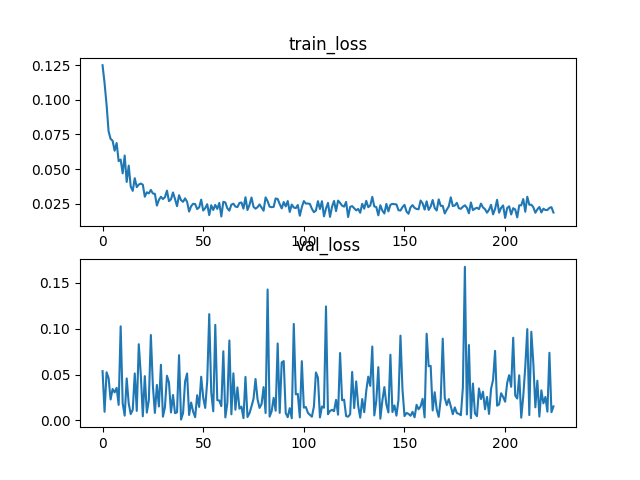
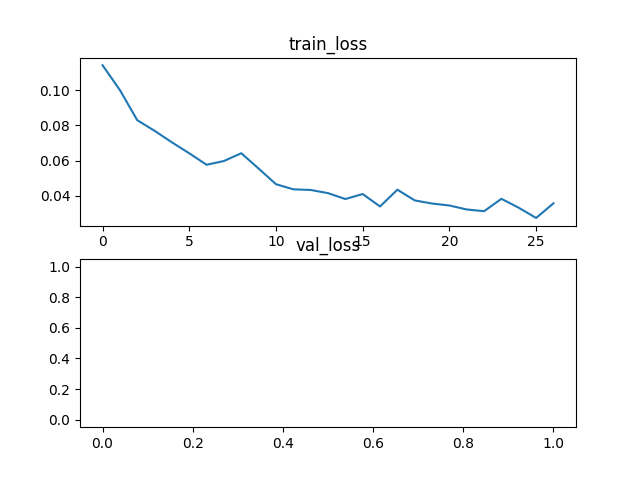
model save+refine requirment.txt+plot each iter

diff --git a/train_cnn.py b/train_cnn.py
@@ -27,12 +27,13 @@ logging.basicConfig(level=logging.INFO)
 
 from utils.visualisation.gridshow import show_image
 from datetime import datetime as dtime
+save_folder = 'saved'
 now = dtime.now()
 time = 'alex_net_18_depth_test'
 class Args():
   network= 'ggcnn'
   dataset = 'cornell'
-  dataset_path = r"C:\Users\ASUS ZENBOOK\Desktop\cornell_dataset"
+  dataset_path = r"/home/taarlab-ros/Desktop/cornell_dataset"
   use_rgb = True
   use_depth = True
   split = 0.9
@@ -78,7 +79,7 @@ def parse_args():
     return args
 
 
-def validate(net, device, val_data, batches_per_epoch, epoch, val_losses):
+def validate(net, device, val_data, batches_per_epoch, epoch):
     """
     Run validation.
     :param net: Network
@@ -114,7 +115,7 @@ def validate(net, device, val_data, batches_per_epoch, epoch, val_losses):
                 yc = y.to(device)
                 pred = net(xc)
                 loss = F.mse_loss(pred, yc)
-                results['loss'] += loss.item()/ld
+                results['loss'] += loss.item()
 
                 s = evaluation.calculate_iou_match_hamed(pred, val_data.dataset.get_gtbb(didx, rot, zoom_factor, normalise=False))
 
@@ -123,14 +124,14 @@ def validate(net, device, val_data, batches_per_epoch, epoch, val_losses):
                 else:
                     results['failed'] += 1
 
-                if batch_idx % 10 == 0:
-                    logging.info('Batch: {}, Loss: {:0.4f}'.format(batch_idx, F.mse_loss(pred, yc)))
-                    val_losses.append(F.mse_loss(pred, yc).item())
+                if batch_idx % 100 == 0:
+                #     logging.info('Batch: {}, Loss: {:0.4f}'.format(batch_idx, F.mse_loss(pred, yc)))
+                #     val_losses.append(F.mse_loss(pred, yc).item())
                     show_image(xc, yc, pred, val_data, didx, rot, zoom_factor, epoch, batch_idx, time, 'validation',  True)
                 # print('pred', pred)
                 #printing Loss_validation
                 # print('vallos:', F.mse_loss(pred, yc))
-    return results, val_losses
+    return results
 
 
 def train(epoch, net, device, train_data, optimizer, batches_per_epoch, losses, time, vis=False):
@@ -232,28 +233,31 @@ def run():
     # net = ggcnn(input_channels = input_channels)
     device = torch.device('cuda:0' if torch.cuda.is_available() else 'cpu')
     print(device)
+    if not os.path.exists('saved/model'):
+        # n_inputs = 1000
+        from torchvision import models
+        net = models.alexnet(pretrained=True)
 
-    # n_inputs = 1000
-    from torchvision import models
-    net = models.alexnet(pretrained=True)
-
-    # Freeze model weights
-    for param in net.parameters():
-        param.requires_grad = False
-    # Add on classifier
-    # print('++++++++++\n',net, '++++++++++++++++\n')
-    net.classifier = nn.Sequential(
-        nn.Linear(9216, 512),
-        nn.Tanh(),
-        nn.Dropout(0.5),
-        nn.Linear(512, 512),
-        nn.Tanh(),
-        nn.Dropout(0.5),
-        nn.Linear(512, 6),
-        nn.Tanh()
-        )
-    # print(net)
-    # net.classifier[6].requires_grad = True
+        # Freeze model weights
+        for param in net.parameters():
+            param.requires_grad = False
+        # Add on classifier
+        # print('++++++++++\n',net, '++++++++++++++++\n')
+        net.classifier = nn.Sequential(
+            nn.Linear(9216, 512),
+            nn.Tanh(),
+            nn.Dropout(0.5),
+            nn.Linear(512, 512),
+            nn.Tanh(),
+            nn.Dropout(0.5),
+            nn.Linear(512, 6),
+            nn.Tanh()
+            )
+        # print(net)
+        # net.classifier[6].requires_grad = True
+    else:
+        print('Loading Model')
+        net = torch.load('saved/model')
     net = net.to(device)
     # optimizer = optim.Adam(net.parameters(), lr=0.05)
     optimizer = optim.Adam(net.parameters(), lr=0.0005)
@@ -282,7 +286,9 @@ def run():
 
         # Run Validation
         logging.info('Validating...')
-        test_results, val_losses = validate(net, device, val_data, args.batches_per_epoch, epoch, val_losses)
+        test_results = validate(net, device, val_data, 1000, epoch)
+        logging.info('Loss: {:0.4f}'.format(np.mean(test_results['loss'])))
+        val_losses += np.mean(test_results['loss'])
         logging.info('%d/%d = %f' % (test_results['correct'], test_results['correct'] + test_results['failed'],
                                      test_results['correct']/(test_results['correct'] + test_results['failed'])))
 
@@ -295,15 +301,16 @@ def run():
         # Save best performing network
         iou = test_results['correct'] / (test_results['correct'] + test_results['failed'])
         # if iou > best_iou or epoch == 0 or (epoch % 10) == 0:
-        #     torch.save(net, os.path.join(save_folder, 'epoch_%02d_iou_%0.2f' % (epoch, iou)))
-        #     best_iou = iou
-    fig = plt.figure()
-    ax = fig.add_subplot(211)
-    ax.title.set_text('train_loss')
-    ax.plot(train_losses)
-    ax = fig.add_subplot(212)
-    ax.plot(val_losses)
-    ax.title.set_text('val_loss')
-    plt.savefig('total_Losses')
+        torch.save(net, os.path.join(save_folder, 'model'))
+        # best_iou = iou
+        fig = plt.figure()
+        ax = fig.add_subplot(211)
+        ax.title.set_text('train_loss')
+        ax.plot(train_losses)
+        ax = fig.add_subplot(212)
+        ax.plot(val_losses)
+        ax.title.set_text('val_loss')
+        plt.savefig('total_Losses')
+        plt.close(fig)
 if __name__ == '__main__':
     run()
